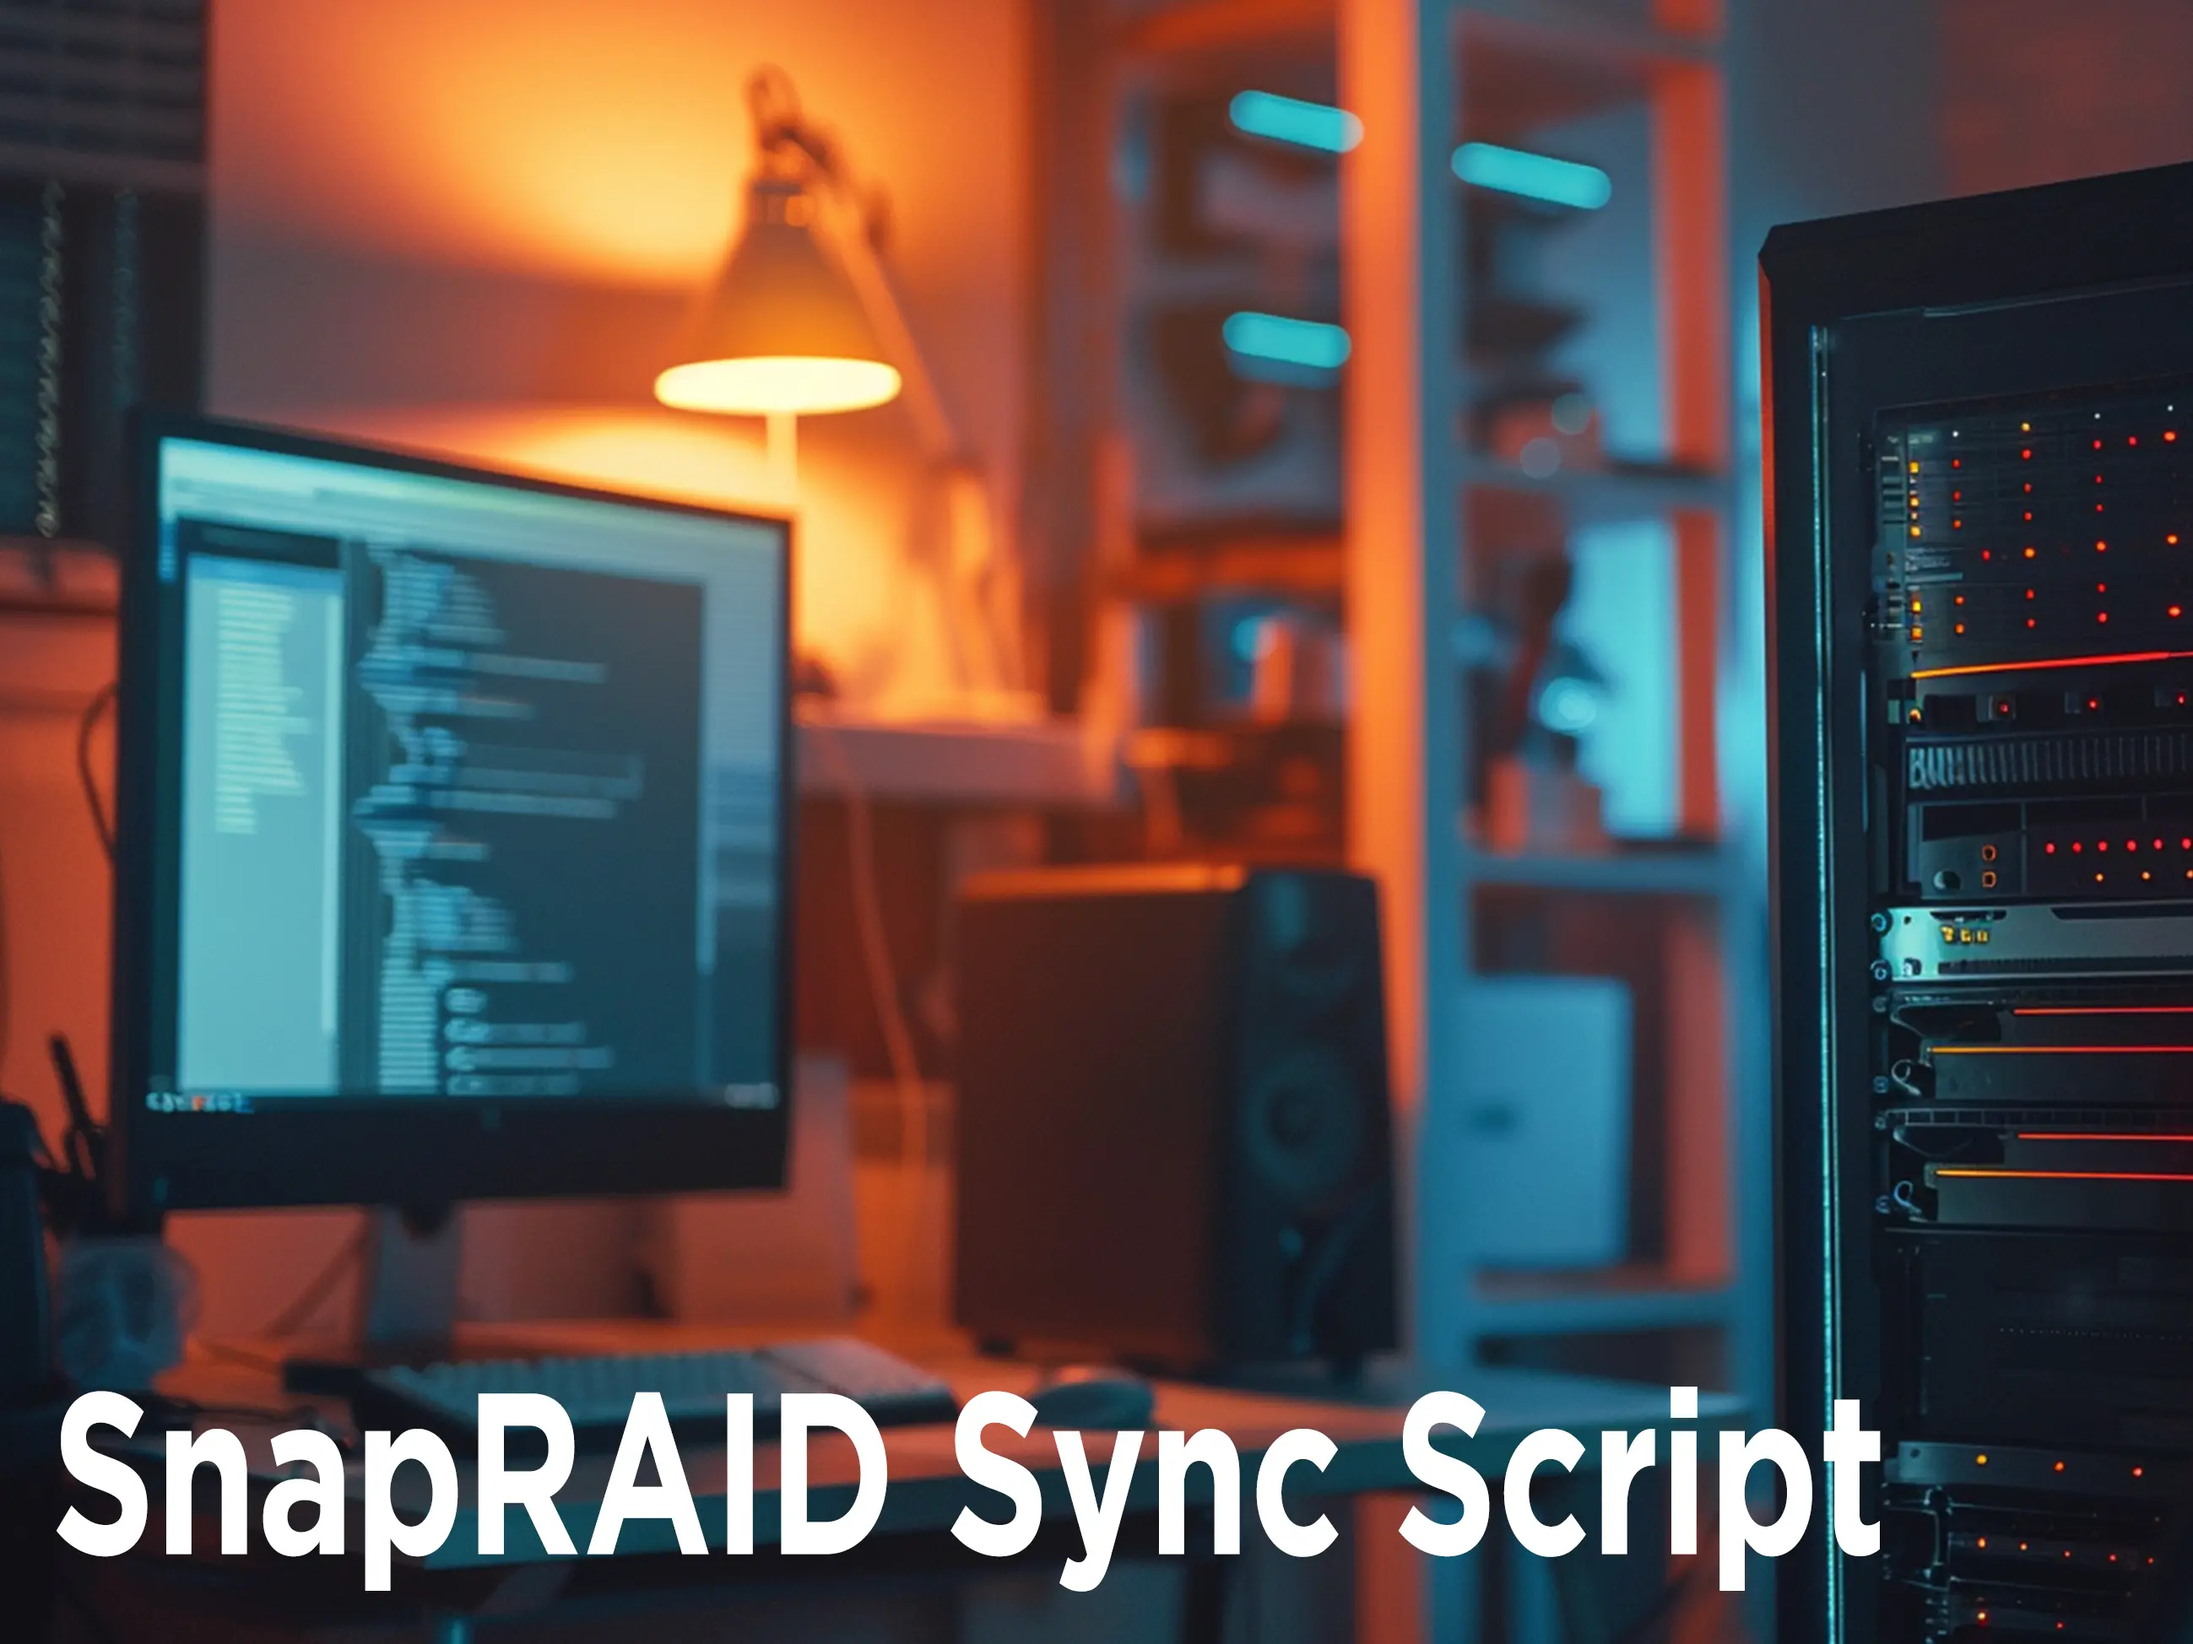
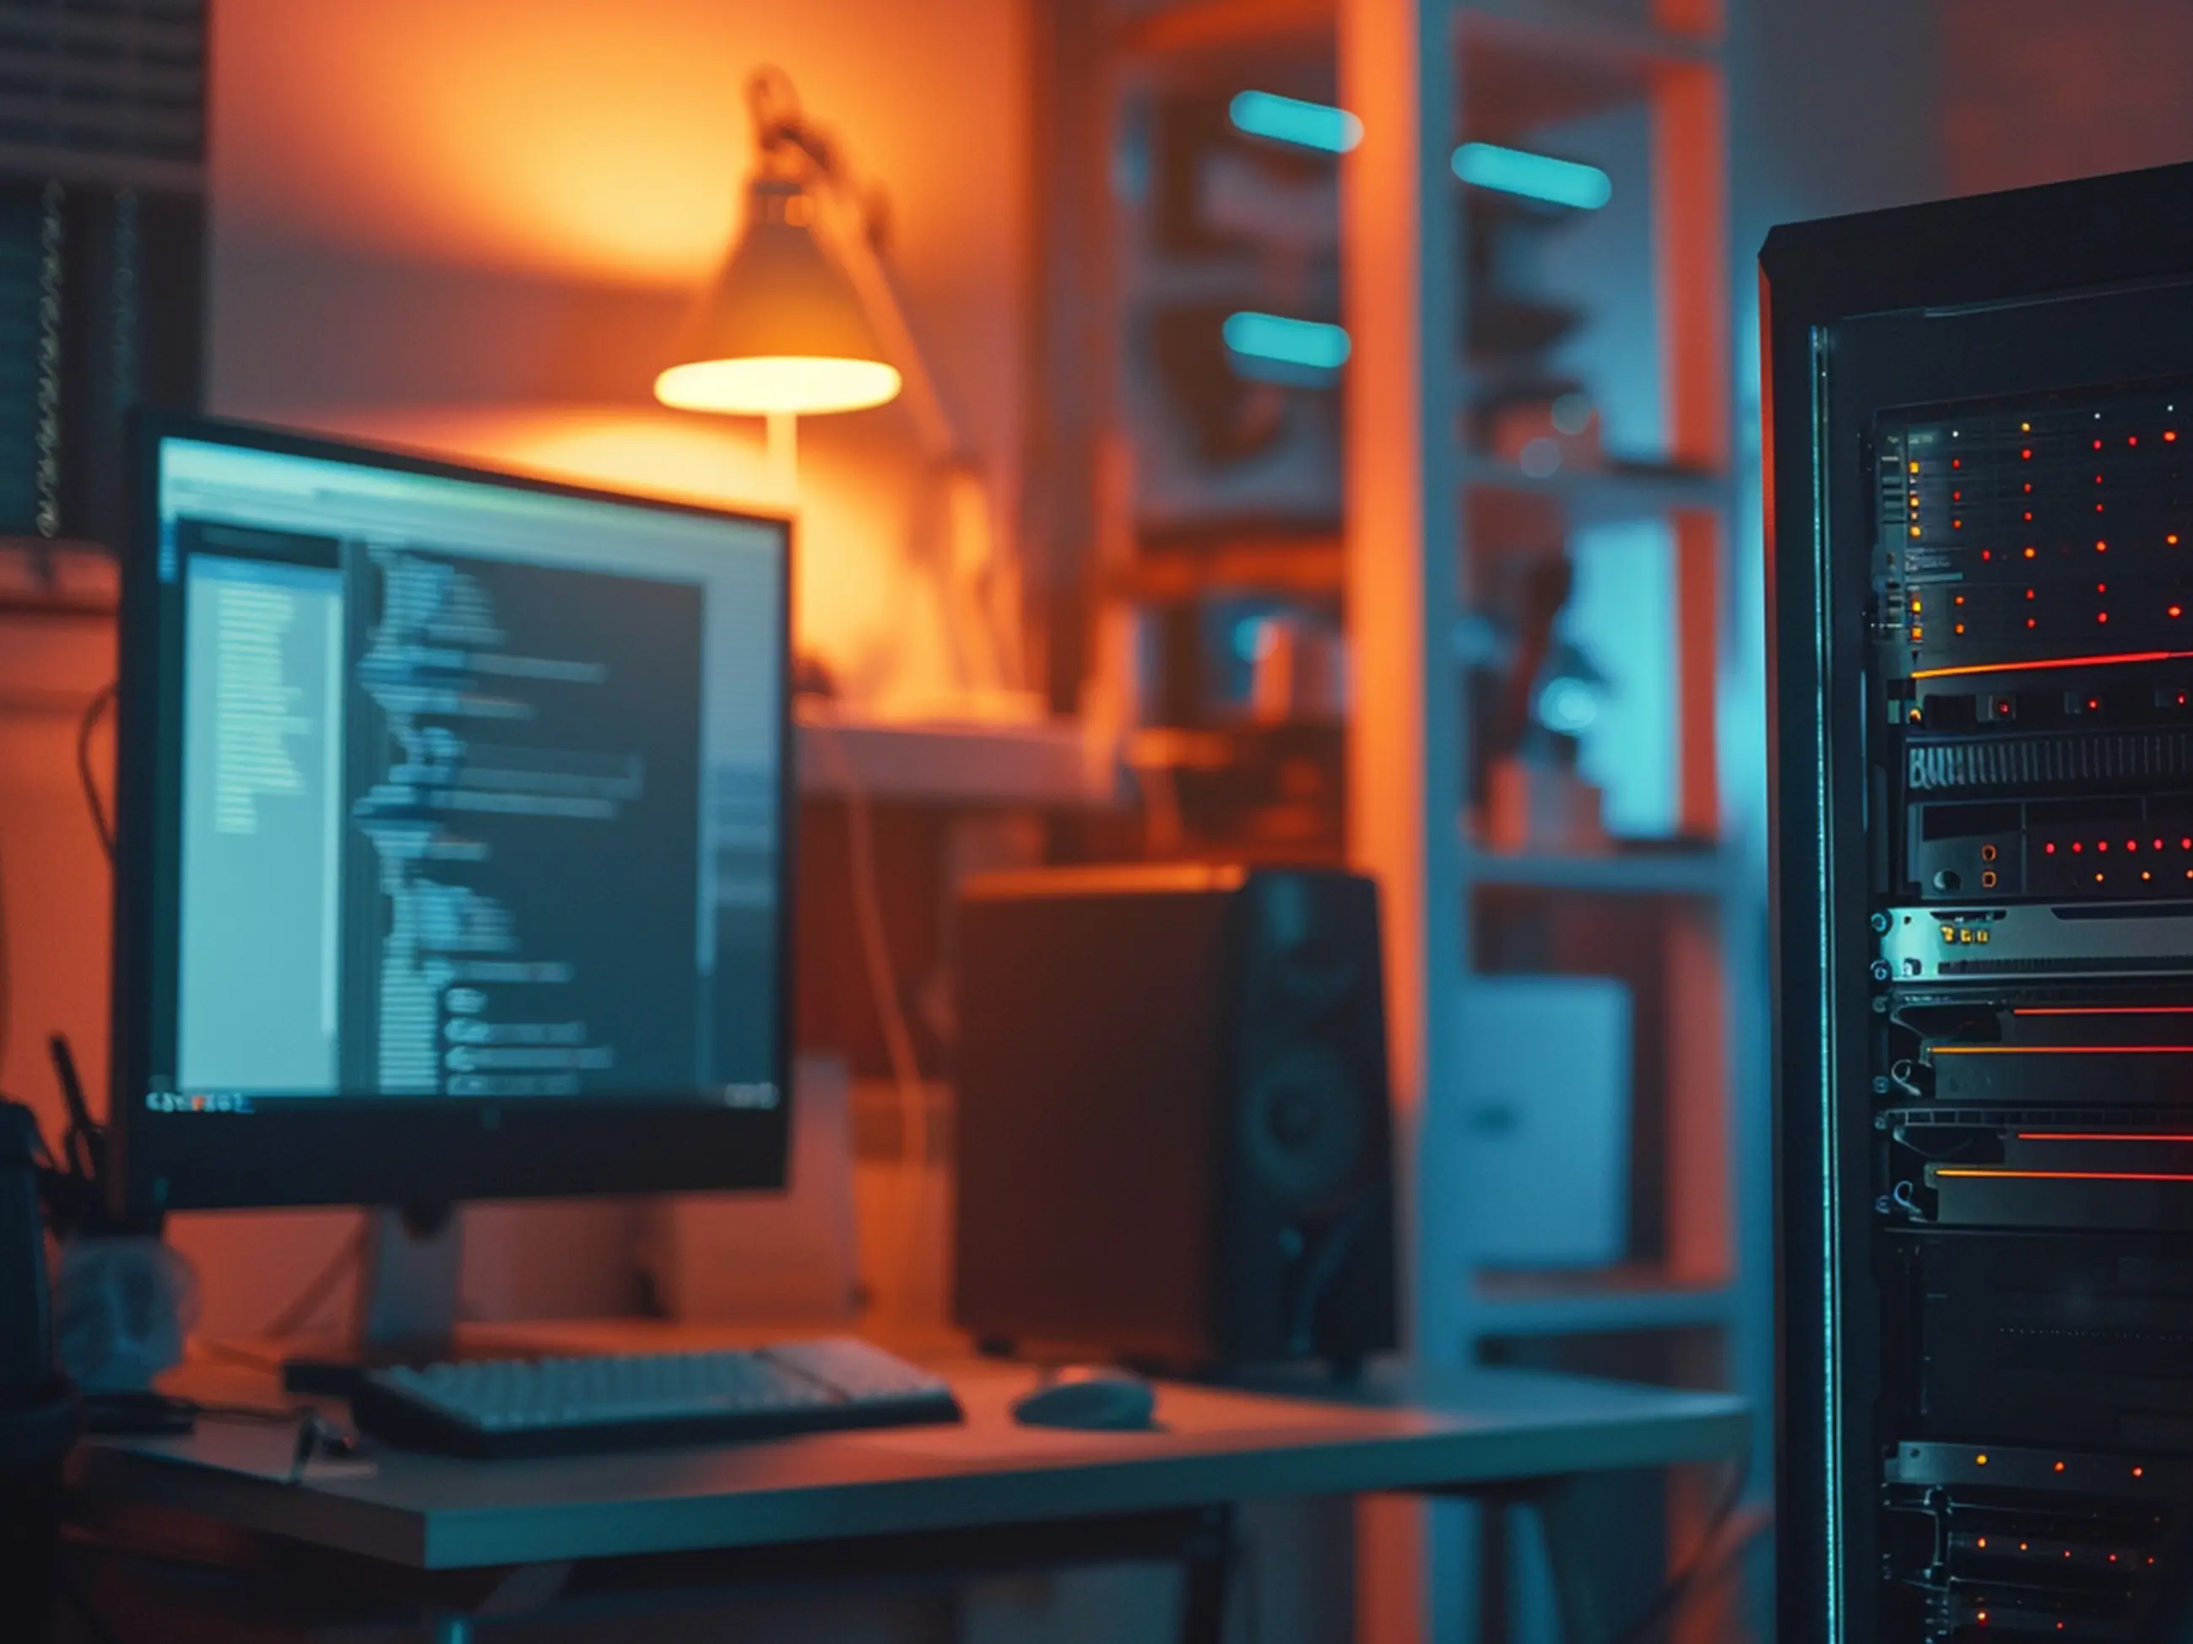
Updated SnapRAID sync script revised 3

Changed region(s): [[0.4365, 0.8316, 0.873, 0.9856], [0.0312, 0.8316, 0.4053, 0.9856]]

diff --git a/_posts/2026-01-20-modern-snapraid-maintenance-script.md b/_posts/2026-01-20-modern-snapraid-maintenance-script.md
@@ -1,6 +1,6 @@
 ---
 layout: post
-title: "A Modern SnapRAID Maintenance Script (Split Parity, Docker-Aware, and Monitored)"
+title: "A Modern, Updated SnapRAID Maintenance Script"
 date: 2026-01-20
 categories: [homelab, snapraid, storage, linux]
 tags: [snapraid, split parity, docker, monitoring, bash]
